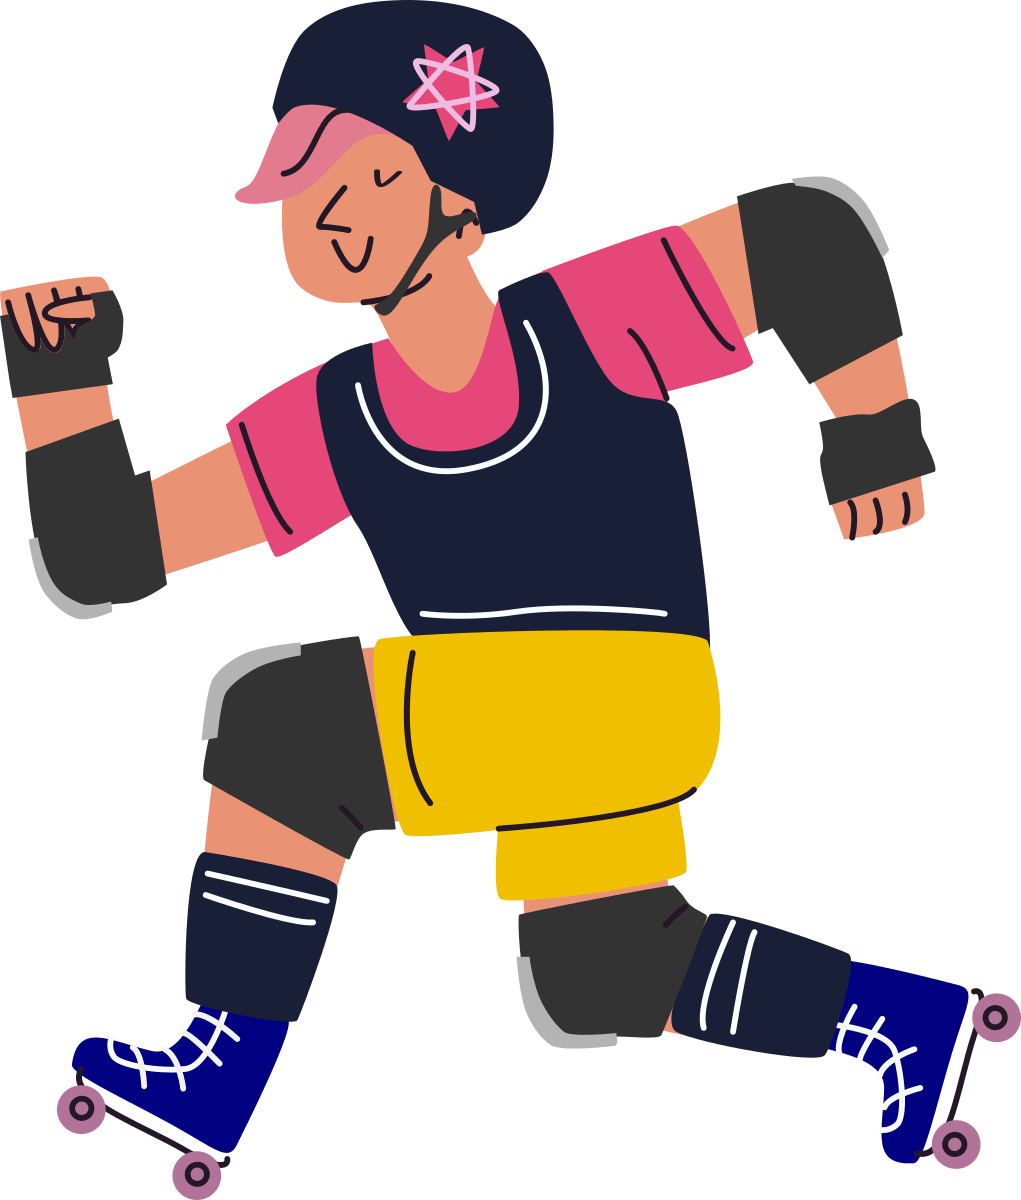
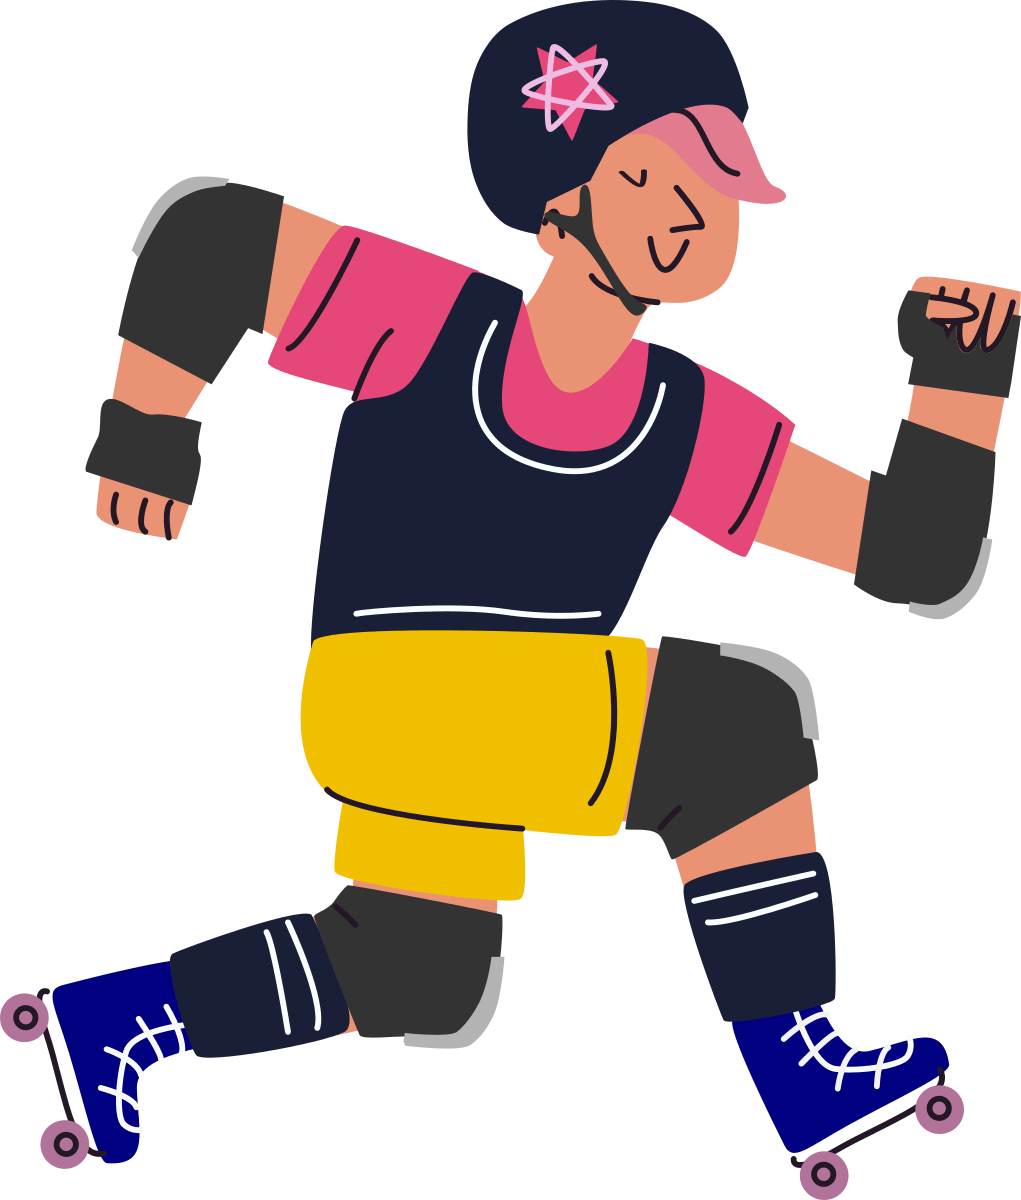
A few fixes + completed readme

diff --git a/styles/style.css b/styles/style.css
@@ -247,19 +247,19 @@ h1 {
 
     60% {
         right: -5%;
-        transform: translateY(-50%) rotate(5deg);
+        transform: translateY(-50%) rotate(5deg) scaleX(-1);
     }
 
     70% {
-        transform: translateY(-50%) rotate(-5deg);
+        transform: translateY(-50%) rotate(-5deg) scaleX(-1);
     }
 
     80% {
-        transform: translateY(-50%) rotate(3deg);
+        transform: translateY(-50%) rotate(3deg) scaleX(-1);
     }
 
     90% {
-        transform: translateY(-50%) rotate(-3deg);
+        transform: translateY(-50%) rotate(-3deg) scaleX(-1);
     }
 }
 
@@ -377,7 +377,7 @@ h1 {
     right: -100px;
     top: 50%;
     max-height: 80%;
-    transform: translateY(-50%);
+    transform: translateY(-50%) scaleX(-1);
     max-width: 40%;
     animation: slide-in-right 1.5s ease-out;
     transform-origin: center;
@@ -607,9 +607,11 @@ aside {
 #fight-screen .jammer .jammer-pic {
     width: 300px;
     position: absolute;
-    left: -50px;
-    bottom: -100px;
+    left: -40px;
+    bottom: -30px;
     max-width: 60%;
+    max-height: 60%;
+    object-fit: contain;
     animation: slide-in-left 1s ease-out;
 }
 
@@ -687,7 +689,7 @@ aside {
     position: absolute;
     top: 20px;
     right: -20px;
-    max-height: 70%;
+    max-height: 60%;
     width: auto;
     max-width: 70%;
     animation: blocker-appear 1s ease-out;

diff --git a/index.html b/index.html
@@ -18,10 +18,6 @@
         <img src="./assets/logo.svg" alt="StarPass" />
         <h1>A roller derby game</h1>
       </header>
-      <div id="best-score-box" class="d-none">
-        <h3>Best score</h3>
-        <p id="best-score"><span>0</span> points</p>
-      </div>
       <button id="start-button" class="btn double-shadow pop">Start</button>
       <span id="how">How to play?</span>
       <img src="./assets/indian-blocker.png" alt="" class="left-player">

diff --git a/README.md b/README.md
@@ -1,1 +1,52 @@
-# starpass-game
+# StarPass - A roller derby game
+
+_by: Inès Zallouz_
+
+## What's the plan?
+
+Starpass is a student project I developed during my first project week at Ironhack web development bootcamp in October 2022
+
+Created with :
+- HTML/CSS
+- JavaScript
+- Blood, sweat and tears, but mostly tea
+
+## What are the rules ?
+
+- You’re the jammer
+- You must avoid opposing blockers (that’s game mode 1)
+- You score points by overlapping them
+- If you collide with an opponent, you’ll have to find a way to overlap them using your strength or speed (that’s game mode 2)
+    - You lose stamina with every unsuccessful try
+    - You can gain stamina by colliding with a teammate
+    - If your stamina falls to 0, you lose
+
+## Why this one?
+
+- Because I played roller derby for 5 years and it is a fun sport that deserves public recognition
+- It allows for several game mechanics at once
+
+## Features
+
+- Two games in one (a canvas game and a more classic rpg-fight type one)
+- The choice between 3 different characters with different avatars and stats
+- Hit collisions (if you hit an opponent, the canvas stops and you enter fight mode)
+- Booster collisions (if you hit an opponent, the canvas keeps running and you gain +5 stamina if you're not at full stamina)
+- Randomly generated opponents for each fight
+- Restart game at the end
+- CSS animations everywhere
+- Amazing (not really) sound effects
+
+## Known issues
+
+- Scoring is a bit hectic
+
+## What's next
+
+- Local best score
+- Fix scoring problem
+
+
+## Demo
+
+[StarPass](https://inesza.github.io/starpass-game/ "StarPass - A roller derby game")
